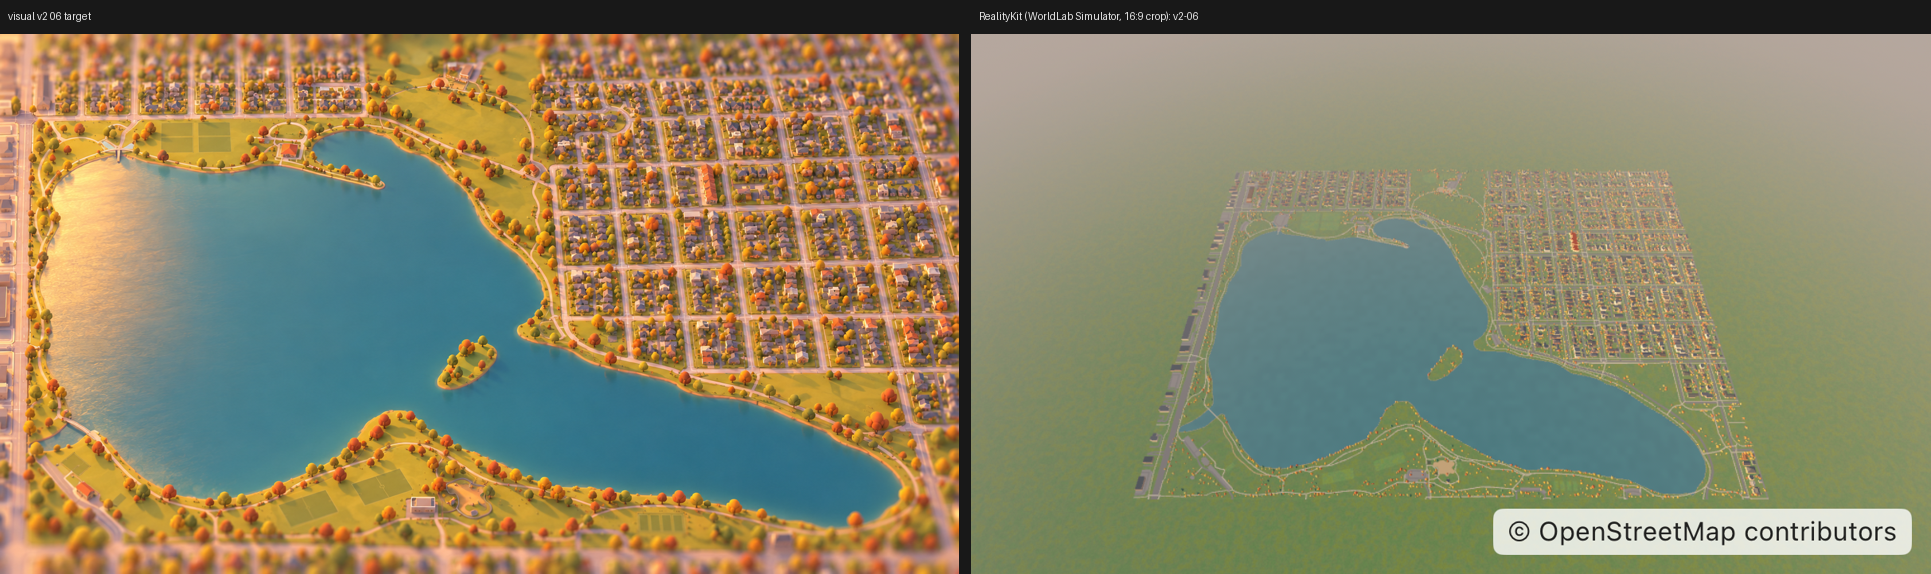
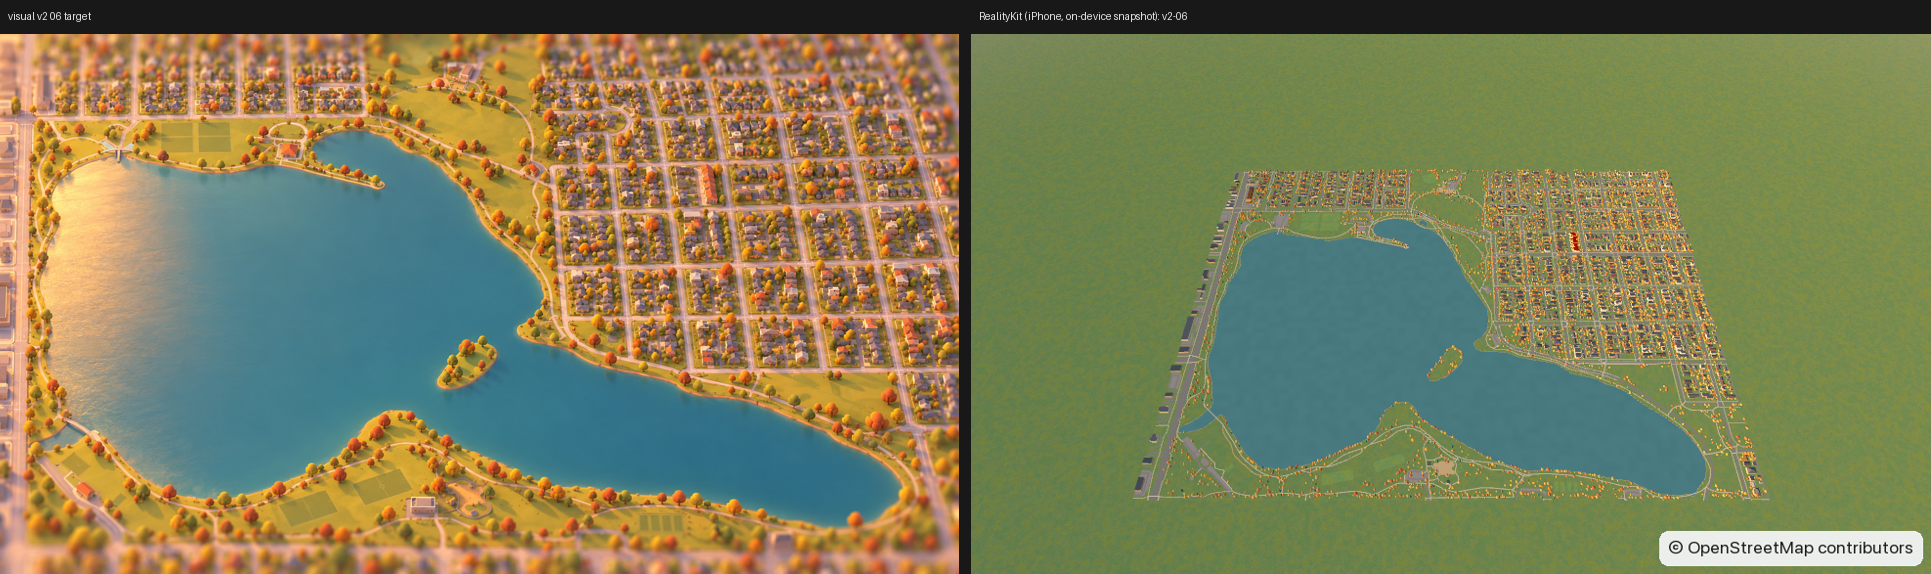
Phase 5A report; gate captures from the phone (on-device snapshots at 2.5x with the OSM credit as on screen)
- docs/m3/report.md: housekeeping, performance (scale, calm mode, pause, GPU time and attribution), experience modes, environment on screen, gate (rubric 35/50, top gaps), device results (every session and its conditions), 5B estimate for Wilmette then Lakeview, platform options, decisions, everything touched
- docs/screenshots/m3/gate, compare, gate-sheet.png: the 15 gate views from the iPhone with tonight's trees, aerial fog and snow, unlit sky

Changed region(s): [[0.4972, 0.0, 1.0, 1.0], [0.7147, 0.7404, 0.7457, 0.77], [0.6836, 0.77, 0.7147, 0.7997]]

diff --git a/docs/m3/report.md b/docs/m3/report.md
@@ -1,0 +1,271 @@
+# Phase 5A report: performance, no-character experience, living world (Prompt 5)
+
+Device: iPhone 14 Pro, iOS 26.4.2. Area: Sloan's Lake, Denver. Branch: `phase5a`. Engine decision (final): iPhone = RealityKit; computers/web = three.js reading the same package. The fair-rematch addendum was cancelled before any three.js work.
+
+## 1. Housekeeping, disk, WeatherKit
+- **DeviceSupport 26.4.1 deleted** (5.7 GB). Only 26.4.2 (your phone) remains.
+- **Disk report (read-only; nothing else deleted).** Largest folders:
+
+  | Folder | Size | Notes |
+  |---|---:|---|
+  | `~/Library` | 118.9 GB | |
+  | `~/Library/Developer` | 80.1 GB | |
+  | `~/Library/Developer/CoreSimulator` (Devices) | 66.3 GB | simulator devices; largest single item |
+  | `~/Desktop` | 43.8 GB | |
+  | `~/robwoodbury-com` | 24.2 GB | |
+  | `~/Library/Application Support` | 22.5 GB | Claude 13.3 GB, Notion 2.6 GB, Google 2.0 GB |
+  | `~/.codex` | 17.1 GB | |
+  | `~/Library/Developer/Xcode` | 13.8 GB | DeviceSupport 26.4.2 5.5 GB; DerivedData 5.1 GB (Kept 2.3, WeeklyDinners 2.0, stretchrun 0.3) |
+  | `~/Library/Caches` | 12.6 GB | Spotify 2.6 GB, Codex 2.1 GB, ShipIt 1.9 GB |
+  | `~/Downloads` | 8.3 GB | |
+  | `~/.npm` | 5.9 GB | |
+  | `~/Movies` | 3.2 GB | |
+  | `~/.claude` | 3.1 GB | |
+  | `~/.cache` | 1.8 GB | |
+  | `~/Library/Containers` | 1.6 GB | CoreDeviceService 0.8 GB |
+
+  iOS backups: none (`MobileSync/Backup` does not exist). Several `robwoodbury-*` repositories are 0.6–1.5 GB each.
+- **Low Power Mode and charging** are logged in every WorldLab test run: CSV header, and the summary at start and end. The device scripts also stop a sequence if a run starts on the charger or in Low Power Mode. That check caught two problems this phase (§6).
+- **WeatherKit:** WorldLab now signs with the explicit App ID (`com.lincolnlabs.worldlab`, WeatherKit entitlement); the device build signs and installs. One live request from the Simulator, for the Plano city centre snapped to the 0.05° grid (cell `c005-2460-1666`, centre 33.025, −96.675), **succeeded**: clear, cloud 0.00, 22.4 °C, wind 2.0 m/s from 29°, visibility 43 km, 0.00 mm/h; valid 02:22:10 UTC, expires 5 minutes later; attribution "Apple Weather" with the legal-attribution URL. Nothing was stored. One fix was needed: an iOS resource bundle may not contain a folder named `Resources` (codesign rejects it), so the star catalogue moved to `Catalog/`.
+
+## 2. Performance (section A)
+Device runs: Low Power Mode off, unplugged, heat nominal unless noted; street loop at golden hour with Luna following (the matched-test setup), 60 s each. Logs: `docs/perf/m3-phase5a/` and `docs/perf/m3-phase5a-gate/`. Runs that started on the charger or in Low Power Mode were discarded (§6).
+
+**Resolution (decision 2).** RealityView has no resolution API; the view behind it is an `ARView`, whose `contentScaleFactor` (public UIKit API) sets the drawable. WorldView finds that view and applies the shared display policy (`Profiles/display.json`, also exported in the package): **2.5×** at nominal heat, **2.25×** at fair, **2.0×** at serious or critical; it steps down at once and back up only after 60 s cooler. On the phone 2.5× is 982×2130 (from 1179×2556). In the rain gate loop the phone reached "fair" at 33 s and the view stepped to 2.25× (884×1917) as designed.
+
+| Before the environment work (clean) | Avg fps | 1% low | Over 25 ms | Worst frame | Memory | Post GPU |
+|---|---:|---:|---:|---:|---:|---:|
+| 3.0× (native) | 59.8 | **46.6** | 0.12% | 35.9 ms | 454 MB | 1.64 ms |
+| **2.5×** | **60.0** | **58.9** | 0.00% | 17.3 ms | 395 MB | 1.16 ms |
+| 2.0× | 60.0 | 58.7 | 0.00% | 17.2 ms | 341 MB | 0.76 ms |
+
+Target (avg ≥ 58, 1% low ≥ 50) **met at 2.5×**; native 3× still misses the 1% low, as in the earlier check. **No cuts were needed** for this target (shadows, LODs and bloom unchanged).
+
+**Visual difference** (`docs/screenshots/m3/scale/`, same preset at each scale, crop at full size): 2.5× softens thin edges slightly (the dog's outline and collar, sidewalk joints, grass tufts); at phone viewing distance it is hard to see. 2.25× is visibly softer up close; 2.0× is soft on fine lines and textures. The heat steps only drop to 2.25×/2.0× when the phone warms.
+
+**Calm mode (30 fps when still): not achievable with RealityView.** Calm detection works (camera and moving entities still for 1.5 s; any touch wakes it), but RealityKit ignores the only frame-rate control behind RealityView (`ARView.__preferredFrameRate`, an undocumented property), on the phone and in the Simulator, with and without automatic frame rate, and after re-attaching the view: still 60 fps. I prototyped the alternative, drawing the world with `RealityRenderer` (public RealityKit API) into a Metal layer WorldEngine owns: its image matched RealityView (mean pixel difference 1.9/255) and calm mode then ran at exactly 30.0 fps, but walking it managed only 55.3 fps average with a 23.9 fps 1% low (RealityView: 60.0 / 58.9). It stays an off-by-default experiment (`WorldRenderSettings.host`); see decisions. Heat effect of calm mode: in two 2-minute idle runs on that host heat stayed nominal either way, and a sound GPU-time comparison wasn't possible with that host (its own timing brackets measured the pipeline, not the GPU).
+
+**Pause when hidden: works.** Paused = the RealityView leaves the hierarchy (no public pause exists): 0 fps while paused, the same world and post-processing come back on resume. Triggers: app in background, view off screen, or the host's `isPaused`; Control Center or an alert over the app (inactive) keeps rendering. The phone checks found one bug and it is fixed: after returning from the background, frame updates fired twice (a torn-down view keeps ticking briefly; its subscription is now cancelled).
+
+**GPU frame time (RealityKit).** Measured with Instruments' Metal System Trace on the phone, but with the GPU at its own clocks: Xcode's stock template pins the GPU to its **minimum** clock while tracing (that is what inflated the milestone 2 numbers); `scripts/make_gpu_template.py` writes a copy with the performance state set to "Default" (or "Maximum"). Street loop, 2.5×, with all of section C on:
+
+| GPU time per frame | Mean | Worst 1% | Max |
+|---|---:|---:|---:|
+| Clear, golden hour, GPU at its own clocks | 14.07 ms | 14.65 ms | 14.96 ms |
+| Clear, golden hour, GPU pinned at maximum clock | 14.04 ms | 14.53 ms | 14.63 ms |
+| Light rain, GPU at its own clocks (stepped to 2.25× at 33 s) | 15.06 ms | 19.75 ms | 22.00 ms |
+
+**The 8 ms aim (≥ 2 ms free of the 10 ms budget) was not met: about 14 ms of GPU work per frame**, with weather already included. 60 fps still holds because 14 ms fits in the 16.7 ms frame (the GPU is about 84% busy), but there is no headroom. Attaching Instruments disturbs frame pacing, so traced runs are not used for the fps numbers.
+
+**Where the time goes (GPU attribution, overnight, §6).** A fixed street view (Luna standing, golden hour, 2.5×), each feature switched off for a minute between two all-on minutes, and GPU time split by pass:
+- **The main pass's pixel shading is three quarters of the frame**; the rest is the sun's shadow map (~10%), post-processing (~7%), geometry (~5%), the final composite (~3%) and Luna's skinning (~1.5%).
+- **Sun shadows: about a third of the frame** (5.6 of 15.2 ms at the same clock): drawing the shadow map is the small part; sampling it in every shaded pixel is the large one.
+- **Trees: about a quarter of the main pass**, mostly because every tree used the cut-away's transparent pipeline, so the GPU shaded every overlapping lobe instead of only the visible one.
+- MSAA about 8%, the surface extras (lawn patches, litter, puddles, snow) about 1%, and sky pixels cost more than ground pixels (the dome was lit by RealityKit for nothing).
+- Caveat: these runs were on the charger at "serious" heat, where the GPU ignores the requested clock and changes speed with the load, so only comparisons at the same clock are kept (most of the second run's comparisons were not). The daytime session repeats them unplugged.
+
+**Changes made from it, none visible:**
+- **Trees and bushes beyond 20 m use an opaque material**; only those near the camera (where the cut-away can apply) keep the transparent one. **Measured: the old set-up cost 3 ms more per frame (24%)** in the test view, at the same clock.
+- The sky dome and stars are unlit (their colour is all ours).
+- Flat ground, water, the boundary ground and grass tufts no longer draw into the sun's shadow map.
+- Not yet measured cleanly; the daytime session will give the new total for the walking loop.
+
+**What was cut or changed:** nothing visible was cut. Changed: render scale 3.0× → 2.5× (heat steps to 2.25×/2.0×); the experimental RealityRenderer host was not adopted; the invisible GPU savings above. Visible cuts that would close the rest of the gap (shorter shadow range, MSAA off) are a decision for you (§9).
+
+## 3. Experience modes (section B)
+WorldLab now opens on a **composed postcard with no character**, live clock and Demo weather (`docs/experience.md`).
+- **Composition is shared and renderer-neutral** (WorldGen, `Experience/`). The experience-v1 §4 heuristic runs while the world is prepared (≈ 0.5 s for Sloan's Lake):
+  - Candidates every ~10 m on public paths and park edges (never in water, buildings or private ways; ≤ 256), 24 headings, ≤ 32 coarse rays per pose against building hulls, tree crowns and a classified ground grid.
+  - Scores open depth, geographic interest, composition (water 15–40%, sky 25–45%, layered depth, no trunk in the centre third), light fit at three real sun positions, weather fit and coverage, with the spec's weights; the best 12 are refined.
+  - Output: the top 8 postcards with scores, frame shares and reasons, stored in the package's `environment.json` (`experience`), so three.js reads the same choice. `worldbake compose` prints them.
+  - At Sloan's Lake all eight are waterfront views (the best: water, park, architecture; score 0.78). Deterministic, tested.
+- **Camera modes** (shared rigs in WorldGen, applied by RealityKit's `WorldCamera`), with eased 1.2 s transitions:
+  - **Postcard:** static; "Next postcard" cycles the composed set.
+  - **Aerial diorama:** bounds + 10%, 55° (45–65°), pan / pinch distance / two-finger heading, centre kept on the data.
+  - **Free explore:** 1.65 m eye, thumb pad + look-drag, 1.4 m/s, ≤ 1.5 m/s², ≤ 60°/s, blocked by buildings, water and the data edge.
+  - **Route flythrough:** 2 m eye, look-ahead clamp(2 + 2v, 4, 18) m, ≤ 30°/s, ≤ 1 m/s², slows before sharp turns, shortens its look at hairpins; foliage near the eye cuts away.
+  - **Character follow:** the existing street camera; offered when a character is present.
+  - Tests check the spec's aerial pose exactly and the explore/route limits.
+- **Character slot:** zero, one or many host entities (`World.characters`); WorldLab switch None / Luna / Capsule.
+- **Overlay:**
+  - Weather strip: condition icon and text, temperature, precipitation, wind, place, local time, a **Demo** badge, and a reserved slot for the Apple Weather mark and legal link (shown with live data in 5B).
+  - Time scrubber above the OSM credit: sunrise/sunset markers, day/week steps, Return to live.
+  - "Clean view" hides the controls but never the OSM credit.
+
+## 4. Environment on screen (section C)
+Everything is driven by the shared `EnvironmentDocument` (`World.apply(_:)`; `docs/environment.md`):
+- **Light:** sun colour, intensity and shadows; fog colour and distances with the weather tint; sky/ground fill with moonlight; lit windows.
+- **Sky** (camera-centred dome):
+  - gradient, horizon haze into the fog;
+  - clouds by cover, with a calibrated threshold, billowed and darker under rain;
+  - sun disk and glow;
+  - the **Moon as an analytic disk lit from its real Sun direction** (1.5× display). In the clear-night state it lands at the spec's computed position (0.172, 0.059 of the frame).
+  - **≤ 128 catalogue stars**, hidden behind cloud.
+  - Smoke, haze and dust veil the sky in their own colour.
+- **Seasons:**
+  - continuous palettes in linear light, with per-tree ±7-day offsets;
+  - autumn leaf drop lobe by lobe; dropped lobes collapse in the vertex stage, so January trees are bare over real branches;
+  - **leaf litter** under real crowns (a canopy map baked from the tree positions), rising through leaf drop and gone by mid-December.
+- **Weather:**
+  - **Rain:** streaks (RealityKit's rain preset, budget counts, light-rain floor 240, in a box ahead of the camera; switched off above 60 m, so the aerial shows rain through wet streets, cloud and fog, per experience-v1 §10); **darker wet paving (asphalt up to 34%) and grass**; a sheen; **puddles** that grow with wetness and mirror the sky with Fresnel.
+  - **Snow:** flakes, and patchy accumulation on upward surfaces (0.8 m, 3.5 m and 18 m patterns, fading with distance; from the air, broad 140 m patches with soft edges instead of fine speckle).
+  - Fog, haze, smoke and dust variants. **Fog is measured along optical depth** (haze thins with height), so the aerial diorama keeps a clear centre with only its far edge softened, as experience-v1 image 10 asks; street views are unchanged.
+  - **Thunderstorm:** dark deck, short fog, heavy rain.
+  - **Wind:** sway per R10, with direction and strength from the model.
+- **Weather and time controls:** WorldLab's menu has eight Demo presets plus showcase states 01–12; the scrubber covers time and date.
+- **Spec notes (decision 5):**
+  - 0–2° sun fade, applied once and shared with the web through the package;
+  - wetness and snow from the model;
+  - blowing snow without ground snow shows no particles;
+  - the January reset is fixed (the calendar wraps);
+  - seasons use the calendar priors;
+  - no Astronomy Engine port.
+- **Also changed:** time-of-day keys now blend chronologically between the day's anchor crossings (weather v1 §5). With explicit scenario intensities, **all eleven experience-v1 states resolve to the spec's fog, direct-light, tint and snow-cover values** (tested).
+- **Art-direction decisions logged:** the rain look goes past the weather spec's "≤ 12% darkening, no mirror reflections" (darker streets, mirrored-sky puddles; no reflected scene geometry), and light rain gets a particle floor.
+
+## 5. Gate (section D)
+**Screenshots, now from the phone** (on-device RealityKit snapshots, iPhone 14 Pro at 2.5×, 982×553 16:9 views; the "© OpenStreetMap contributors" credit is drawn on as the app shows it, because a snapshot holds the world view only): `docs/screenshots/m3/gate/` and side-by-side with the targets in `docs/screenshots/m3/compare/` (experience-v1 01–11 targets; visual v2 01/04/06 targets), contact sheet `gate-sheet.png`. They replace the earlier Simulator captures (in git history), which were taken before tonight's tree, aerial and sky changes. Twelve states: the eleven experience-v1 states at the spec's cameras plus **12, a clear ordinary afternoon** (Oct 15, 15:30 MDT, mostly clear), added per the art direction note, and v2 01/04/06 with Luna. All weather is synthetic **Demo** data.
+
+**Rubric** (visual v2 §8.3, 1–5). The clear afternoon (12) and light rain (03) are scored as strictly as fall (01) and snow (07/08); each criterion takes the weakest of those four where they differ.
+
+| Criterion | Score | Evidence |
+|---|---:|---|
+| 1. Silhouettes | 3 | Trees now read in every season: lobed crowns, real bare branching in winter (07–09), round far crowns. Held at 3 because houses are still plain boxes (v2 shots; P2's area) |
+| 2. Palette | 4 | Coherent families through golden, noon, rain, snow and night; ordinary-afternoon lawn still a little uniform |
+| 3. Light | 4 | Warm golden hour, neutral noon/overcast, cool readable night, distinct low winter morning; one coherent sun |
+| 4. Softness / AO | 3 | Contact and soft shadows, crown AO; no eave or porch occlusion yet |
+| 5. Ground richness | 3 | Lawn patches, leaf litter, joints, puddles, patchy snow; still no shrub/hedge types or garden beds, so ordinary days stay plain |
+| 6. Character | 4 | Luna readable, contact shadow, ~22% framing (v2 01/04) |
+| 7. Depth and fog | 4 | Good street depth and fog/storm/smoke separation; aerials now crisp in the centre with only the far edge softened (10, 11, v2 06) |
+| 8. House variety | 3 | Unchanged v2 kit families (P2's area from here) |
+| 9. Geography | 4 | Real OSM shoreline and paths, postcards composed from map data, sun and Moon positions verified numerically |
+| 10. Motion | 3 | Videos: steady walking and flythrough, stable world-space snow/litter/puddles; dithered cut-away visible on a conifer, some LOD pops |
+| **Total** | **35 / 50** (was 34) | **Gate (≥ 36) not met, one point short** |
+
+**Top five gaps:** (1) ordinary-day ground and greenery: shrub and hedge types, garden beds, leaf litter that reads as leaves rather than flecks (12 is still plain); (2) house silhouettes and variety: boxes without eaves, porches or roof shapes (P2); (3) softness: eave, porch and base occlusion; (4) aerial composition: the detailed area sits on an empty plain, because the data stops at its edge (the specs forbid a made-up backdrop; a real lower-detail context ring is in the 5B estimate); (5) motion: some LOD pops and a visible dithered cut-away in the videos. Tree silhouettes and aerial haze, gaps 2 and 3 last time, are fixed.
+
+**P3's look loop** isn't on main yet, so there are no look-loop scores in this report; I'll run it after the next visual change once it lands.
+
+**Videos (60 s each, Simulator, golden hour):** `docs/videos/m3/street-loop.mp4` (Luna on the loop, follow camera) and `docs/videos/m3/route-flythrough.mp4` (no character). Recorded before tonight's changes; the Simulator was too overloaded tonight to re-record them (load average 300–600 from the parallel sessions' simulators).
+
+**Ten-minute device runs (clear and rain):** not yet run. Per your speed-mode rules they're bundled into one daytime request (unplugged, Low Power Mode off) together with the real heat and battery runs. The WorldLab launcher has both buttons ready.
+
+**Web:** `scripts/web_check.sh` rebuilds the package and the web bundle, serves them and loads the page in headless Chrome. It **passed**: WebGL2 rendered 914,914 triangles of the latest package (`5371b2b+changes`) at "golden", 2026-10-15T23:44:01Z, America/Denver, sun 6.001°, autumn, `sky-golden.png`. It takes about 11 minutes because headless Chrome renders WebGL2 in software, so it is a gate-time check, not a per-build one. The same page in a GPU browser (WebGPU) shows the same values (`docs/screenshots/m3/web-check-webgpu.jpg`). The web reads time, sky and season from the package's `environment.json`, with the 0–2° sun fade and chronological keys now inside those light states; no weather effects on the web, per decision 4.
+
+## 6. Device results
+iPhone 14 Pro, iOS 26.4.2, Release builds over Wi-Fi. Every run logs Low Power Mode, charging and battery level at start and end (and every 10 s in the console); a run is only used if it started unplugged with Low Power Mode off and nothing changed during it.
+
+| Session (Oct 5–6, Denver time) | Conditions | Used for | Logs |
+|---|---|---|---|
+| 1. First checks, 20:52–20:57 | **Discarded.** On the charger for the first ~2 minutes, then WorldLab went to the background while you changed Settings (your heads-up); these runs predate the conditions line | nothing | `docs/perf/m3-phase5a/discarded/` |
+| 2. Probe, 21:20 | **Discarded.** Low Power Mode was on (most likely switched on by the new Do Not Disturb Focus); the script stopped itself, and you turned it off | nothing | same folder, `probe-lpm-on.log` |
+| 3. Clean runs, 21:23–21:34 (after a 10-minute rest) | Unplugged, Low Power Mode off, heat nominal throughout | §2 scale table, calm mode and pause, the RealityRenderer host comparison | `docs/perf/m3-phase5a/` (`console/sequence.txt` lists every run and its arguments) |
+| 4. Gate loops, 23:19–23:24 | Unplugged, Low Power Mode off; nominal, then "fair" from 33 s in the rain loop | §2 GPU frame time, gate fps with section C on | `docs/perf/m3-phase5a-gate/` |
+| 5. Overnight, Oct 6 from 00:42 | **On the charger (functional runs per your overnight rule)**, Low Power Mode off, heat "serious" most of the time | GPU cost by feature, rain hitch checks, on-device gate captures (below); no heat or battery conclusions | `docs/perf/m3-phase5a-attribution/`, `docs/screenshots/m3/` |
+
+**Clean runs (session 3, street loop with Luna, golden hour, 60 s, before the section C work):**
+
+| Run | Avg fps | 1% low | Worst frame | Memory | Notes |
+|---|---:|---:|---:|---:|---|
+| RealityView 2.5× | 60.0 | 58.9 | 17.3 ms | 395 MB | chosen |
+| RealityView 3.0× (native) | 59.8 | 46.6 | 35.9 ms | 454 MB | misses the 1% low |
+| RealityView 2.0× | 60.0 | 58.7 | 17.2 ms | 341 MB | |
+| RealityRenderer host 2.5×, walking | 55.3 | 23.9 | 44.7 ms | 445 MB | experimental host |
+| RealityRenderer host, idle postcard, calm off | 52.3 | 23.4 | 75.9 ms | 437 MB | |
+| RealityRenderer host, idle postcard, calm on | 30.0 | 30.0 | 33.4 ms | 437 MB | calm mode works only on this host |
+| RealityView pause test | 0 fps while paused | | | | resumes with the same world and post-processing |
+
+Battery moved less than the 5% step iOS reports in any of these 60–120 s runs, and heat stayed nominal, so neither gives a heat or battery difference between settings; that needs the 10-minute runs.
+
+**Gate loops with all of section C on (session 4, 2.5×, 60 s, Instruments attached for 8 s at about 40 s):**
+
+| Run | Avg fps | 1% low | Worst frame | Memory | Notes |
+|---|---:|---:|---:|---:|---|
+| Clear | 59.6 | 36.5 | 65.1 ms | 401 MB | **60 fps with no frame over 17 ms for the 38 s before Instruments attached**; every dip falls inside the trace window |
+| Light rain | 58.9 | 21.2 | 231.8 ms | 459 MB | one **232 ms stall at 9 s** (not reproduced since; below), then steady until the trace; stepped to 2.25× at 33 s ("fair") |
+
+The traced seconds aren't representative (attaching Instruments stalls frames), so the fps verdict for section C comes from the untraced part and from the 10-minute runs still to do.
+
+**GPU attribution (session 5, on the charger, functional only).** All runs at a fixed 2.5×; traces of 5–8 s at the requested maximum clock; details and method in `docs/perf/gpu-attribution.md`.
+
+| Run | What it showed | Kept? |
+|---|---|---|
+| Walking loop, one feature off per 100 s | GPU time changed from 11 to 15 ms along the street with every feature on, so each phase measured a different stretch of street | No (moved to `discarded/`); the camera is now fixed |
+| Fixed street view, old materials (`street-run1/`) | Shadows ≈ 37% of the frame, trees ≈ 28% of the main pass, MSAA ≈ 8%, surface extras ≈ 1%, sky pixels dearer than ground (clock-matched pairs only) | Yes, as shares |
+| Fixed street view, opaque trees beyond 20 m (`street/`) | The old transparent trees cost 3.0 ms (24%) more per frame at the same clock. Every other pair ran while the GPU scaled its clock to the load (busy time ≈ 15.3 ms whatever was switched off), so those pairs say nothing | Only the tree result |
+
+Heat was "serious" for almost all of it (the phone had been rendering on the charger for hours), and the trace shows the GPU at its minimum or medium clock although maximum was asked for. Attaching Instruments also drops frames, so none of these runs give fps numbers.
+
+**Other functional checks tonight:**
+- Two 50 s light-rain runs with a hitch log: **no frame over 100 ms after loading** (the 232 ms stall in the gate rain loop didn't recur). That loop also ran the test logger, which wrote to a file on the main thread every frame; those writes are now buffered and done off the main thread. The 10-minute rain run will confirm.
+- On-device snapshots (new tool, `scripts/device_snapshots.sh`) work: RealityKit's capture matches the screen's own composite, post-processing included.
+
+**Not yet run:** the two 10-minute RealityKit runs (clear and rain) and the heat and battery runs. They need the phone unplugged with Low Power Mode off, so they're bundled into one daytime request (§9).
+
+## 7. Phase 5B estimate
+Updated for the new test region: Chicago's North Shore, **Wilmette first** (residential, away from the lakefront), **then Lakeview**, using `docs/proposals/regions-chicagoland-miami/` and your art direction. **Building generation (house families, roofs incl. cross-gables/dormers/turrets, facades, rear porches, courtyard buildings) now belongs to P2** and is not in this estimate. Mine, in working days:
+
+| Work | Days |
+|---|---:|
+| Live WeatherKit: provider (cell switching, 30/15-min refresh, memory cache), hourly history into the accumulation model within the storage rules, Apple Weather mark + legal link + modified-data notice, "Live" label; the Plano connection test stays | 3 |
+| Wilmette area: OSM fetch (`out body`), manifest, region/profile selection from the proposal's catalogue, Chicago phenology prior (dense mature deciduous canopy, strong fall colour) | 1.5 |
+| Ordinary-day richness (art direction): several shrub and hedge types, garden beds, leaf litter that reads as leaves near the camera, richer lawn | 4 |
+| Lived-in details, sparse and within budget: bins, bikes, planters (placement rules only where evidence allows) | 2 |
+| Chicago signatures: alleys (paving, edges, access from OSM), evidence-gated snow piles/curb banks; back porches coordinated with P2 | 2.5 |
+| Lakeview: dense north-side street character (parkway trees, boulevards), courtyard landscaping inside P2's courts | 2 |
+| GPU budget: from ~14 ms toward the 8 ms aim (attribution-led cuts; see §2) | 3–4 |
+| Rain, second pass: lamp and window reflections on wet streets at dusk/night, puddle ripples | 1.5 |
+| Aerial context: a lower-detail ring of real streets, blocks and water around the detailed area, so the aerial diorama isn't a data square on a plain (the specs forbid a fabricated backdrop) | 1.5 |
+| Gate: screenshots, P3 look-loop scores, daytime heat/battery runs | 1.5 |
+| **Total** | **≈ 22.5–23.5** |
+
+Web weather parity is not included (see §8).
+
+## 8. Platform options for computers and the web
+| Option | What it is | Days to build | Upkeep |
+|---|---|---:|---|
+| **a) Full web weather parity** | Port section C to three.js: sky dome with Moon and stars, seasons with per-tree offsets and leaf drop, wet/puddle/snow shading, particles, display policy; keep both renderers in lockstep from the shared package | 10–12 | High: every look change is done twice; expect +40–60% on visual work, plus a second GPU budget to hold |
+| **b) Web page with recorded postcards and videos** | Render postcards and short videos from RealityKit (device or Mac) per time/weather and publish a static page | 2–3 | Low: re-render after look changes; not interactive and no live weather |
+| **c) Native Mac app reusing RealityKit** | WorldEngine already builds for macOS; add a Mac WorldLab target (window sizing, mouse/keyboard for explore and aerial, post-processing on macOS) | 4–6 | Low–moderate: same engine and look; Mac only (no Windows or browser) |
+
+My recommendation: **c** for computers, and **b** if a public web link is needed, until the iPhone look is approved. **a** only if a live, interactive browser version is a product requirement.
+
+## 9. Decisions needed
+1. **Calm mode (Prompt 5 asked for 30 fps when still).** RealityView ignores every frame-rate control, so calm mode can't be done with it. Options:
+   - **(a) No calm mode for now; pause when hidden stays (recommended).** No cost, no risk. I'd also file an Apple Feedback asking for a frame-rate control on RealityView, and re-test on each iOS release.
+   - (b) Switch the idle postcard to the RealityRenderer host. Calm mode works there (30.0 fps), but that host walks at 55.3 fps with a 23.9 fps 1% low, and swapping hosts when the camera starts moving would likely hitch. About 2 days to make it seamless, and it might still not be.
+2. **GPU budget (the 8 ms aim).** Before tonight the walking loop needed about 14 ms. The opaque trees saved about a quarter of the frame in the test view, and the other invisible savings are in; the daytime session gives the new walking-loop number. If it is still above 8 ms, what's left is visible:
+   - **Shadow range** (now 80 m): shadows are about a third of the frame. A shorter range drops distant shadows (long golden-hour shadows across the street would end sooner); I'll measure 50 m and 30 m in the daytime session.
+   - **MSAA off**: about 8%; edges of roofs, wires and trunks would shimmer slightly at 2.5×.
+   - **Longer-term, no visible loss** (5B budget work): baked ground shadows and occlusion for static geometry, cheaper lighting for distant trees.
+   - My recommendation: decide after the daytime numbers; if a cut is needed, the shadow range first.
+3. **Platform for computers and the web (§8):** a, b or c. I recommend **c** (a native Mac app on RealityKit), plus **b** if you need a public web link before the iPhone look is approved.
+4. **5B scope with P2:** please confirm the split in §7. P2 owns all building generation (house families, roofs, facades, porches, courtyard buildings). I take live WeatherKit, the Wilmette and Lakeview areas, ordinary-day ground and greenery, alleys, snow piles, sparse lived-in details, the GPU budget and the second rain pass.
+5. **Rain look beyond the weather spec.** Per your art direction, rain now darkens asphalt by up to 34% (the weather spec says ≤ 12%), and puddles mirror the sky (the spec says no mirror reflections; I reflect only the sky, not the city). Keep it?
+6. **Daytime device session, about 40 minutes of your phone,** when convenient:
+   - Unplugged, Low Power Mode off, Auto-Lock Never, Do Not Disturb on, after 10 minutes off the charger.
+   - The two 10-minute RealityKit runs (clear, then rain; the WorldLab launcher buttons).
+   - A repeat of the GPU attribution unplugged at nominal heat.
+   - Short heat and battery comparisons of the render scales.
+   - I'll run everything; you only need to unplug the phone and tell me when it has rested.
+
+## Appendix: everything touched in Phase 5A
+
+Repository, `b76580c..phase5a` (plus this report):
+
+- **Engine (`Sources/WorldEngine`):** `Sources/WorldEngine/Environment.swift` (new); `Sources/WorldEngine/Experience+World.swift` (new); `Sources/WorldEngine/GPUTime.swift` (new); `Sources/WorldEngine/PostProcess.swift` (changed); `Sources/WorldEngine/PublicTypes.swift` (changed); `Sources/WorldEngine/RenderControl.swift` (new); `Sources/WorldEngine/RenderResources.swift` (changed); `Sources/WorldEngine/RendererHost.swift` (new); `Sources/WorldEngine/Shaders/WorldShaders.metal` (changed); `Sources/WorldEngine/World.swift` (changed); `Sources/WorldEngine/WorldCamera.swift` (changed); `Sources/WorldEngine/WorldDiagnostics.swift` (changed); `Sources/WorldEngine/WorldView.swift` (changed)
+- **Shared generator and data (`Sources/WorldGen`, `WorldMesh`, `WorldEnvironment`, `WorldPackage`, `worldbake`):** `Sources/WorldEnvironment/Catalog/STARS-NOTICE.md` (moved); `Sources/WorldEnvironment/Catalog/stars-hyg-v41-bright256.json` (moved); `Sources/WorldEnvironment/EnvironmentResolver.swift` (changed); `Sources/WorldEnvironment/EnvironmentState.swift` (changed); `Sources/WorldEnvironment/Phenology.swift` (changed); `Sources/WorldEnvironment/Stars.swift` (changed); `Sources/WorldEnvironment/SyntheticWeather.swift` (new); `Sources/WorldGen/Display.swift` (new); `Sources/WorldGen/Experience/CameraRigs.swift` (new); `Sources/WorldGen/Experience/ExperienceDefaults.swift` (new); `Sources/WorldGen/Experience/PostcardComposer.swift` (new); `Sources/WorldGen/Experience/RayWorld.swift` (new); `Sources/WorldGen/Lighting.swift` (changed); `Sources/WorldGen/Palette.swift` (changed); `Sources/WorldGen/Profiles/display.json` (new); `Sources/WorldGen/Props.swift` (changed); `Sources/WorldGen/StyleProfile.swift` (changed); `Sources/WorldGen/WorldBuild.swift` (changed); `Sources/WorldMesh/MeshBuffers.swift` (changed); `Sources/WorldPackage/WorldPackage.swift` (changed); `Sources/worldbake/main.swift` (changed)
+- **WorldLab app:** `Apps/WorldLab/Resources/demo.json` (changed); `Apps/WorldLab/Sources/ContentView.swift` (changed); `Apps/WorldLab/Sources/Demo.swift` (changed); `Apps/WorldLab/Sources/EnvironmentController.swift` (new); `Apps/WorldLab/Sources/ExperienceOverlay.swift` (new); `Apps/WorldLab/Sources/Metrics.swift` (changed); `Apps/WorldLab/Sources/ViewDiagnostics.swift` (new); `Apps/WorldLab/Sources/WeatherKitProbe.swift` (new); `Apps/WorldLab/Sources/WorldLabApp.swift` (changed); `Apps/WorldLab/project.yml` (changed)
+- **Web:** `web/src/main.js` (changed)
+- **Tests:** `Tests/WorldEnvironmentTests/EnvironmentRuleTests.swift` (changed); `Tests/WorldEnvironmentTests/ShowcaseFixtureTests.swift` (new); `Tests/WorldEnvironmentTests/SkyFixtureTests.swift` (changed); `Tests/WorldGenTests/ExperienceTests.swift` (new); `Tests/WorldGenTests/TreeSilhouetteTests.swift` (new); `Tests/WorldGenTests/WorldGenTests.swift` (changed); `Tests/WorldMeshTests/WorldMeshTests.swift` (changed)
+- **Scripts:** `scripts/attribution_costs.py` (new); `scripts/compose_gate.py` (new); `scripts/device_attribution.sh` (new); `scripts/device_checks.sh` (new); `scripts/device_gate.sh` (new); `scripts/device_snapshots.sh` (new); `scripts/encode_video.swift` (new); `scripts/gate_shots.sh` (new); `scripts/gate_videos.sh` (new); `scripts/gpu_attribution.py` (new); `scripts/gpu_frames.py` (changed); `scripts/gpu_sample.sh` (changed); `scripts/gpu_states.py` (new); `scripts/make_gpu_template.py` (new); `scripts/scale_compare.sh` (new); `scripts/web_check.sh` (new)
+- **Docs:** `docs/perf/gpu-attribution.md` (changed); `docs/m3/report.md` (new, this report); `docs/environment.md` (changed); `docs/experience.md` (new); `docs/package-format.md` (changed)
+- **Repo files:** `.gitignore` (changed); `Package.swift` (changed); `README.md` (changed)
+- **Results committed as data:** `docs/perf/m3-phase5a/` (27 files); `docs/perf/m3-phase5a-attribution/` (8 files); `docs/perf/m3-phase5a-gate/` (12 files); `docs/screenshots/m3/` (36 files); `docs/videos/m3/` (2 files)
+- **Proposals committed unedited (ChatGPT's, read-only):** `docs/proposals/regions-chicagoland-miami/`; `docs/proposals/regions-northshore-chicago-miami/`
+- **Outside the repository:**
+  - Xcode DeviceSupport 26.4.1 deleted (5.7 GB, §1); nothing else deleted outside the repo.
+  - Your iPhone: WorldLab Release builds installed and run (device checks, gate loops, attribution, snapshots); every run's conditions are logged (§6).
+  - Simulators: created "WorldEngine P0" for this session (shut down tonight to ease the Mac's load); the shared "iPhone 17 Pro" was used before that.
+  - Sub-agent worktrees under `.claude/worktrees/` (tree silhouettes, device snapshots): merged, then removed with their branches.
+  - Not touched: P1 (`tools/regionkit/`, `docs/research/`), P2 (building generation), P3 (`tools/lookloop/`), `docs/proposals/` (read only; `postcards-widgets-v1/` appeared tonight from another session and was left alone).
